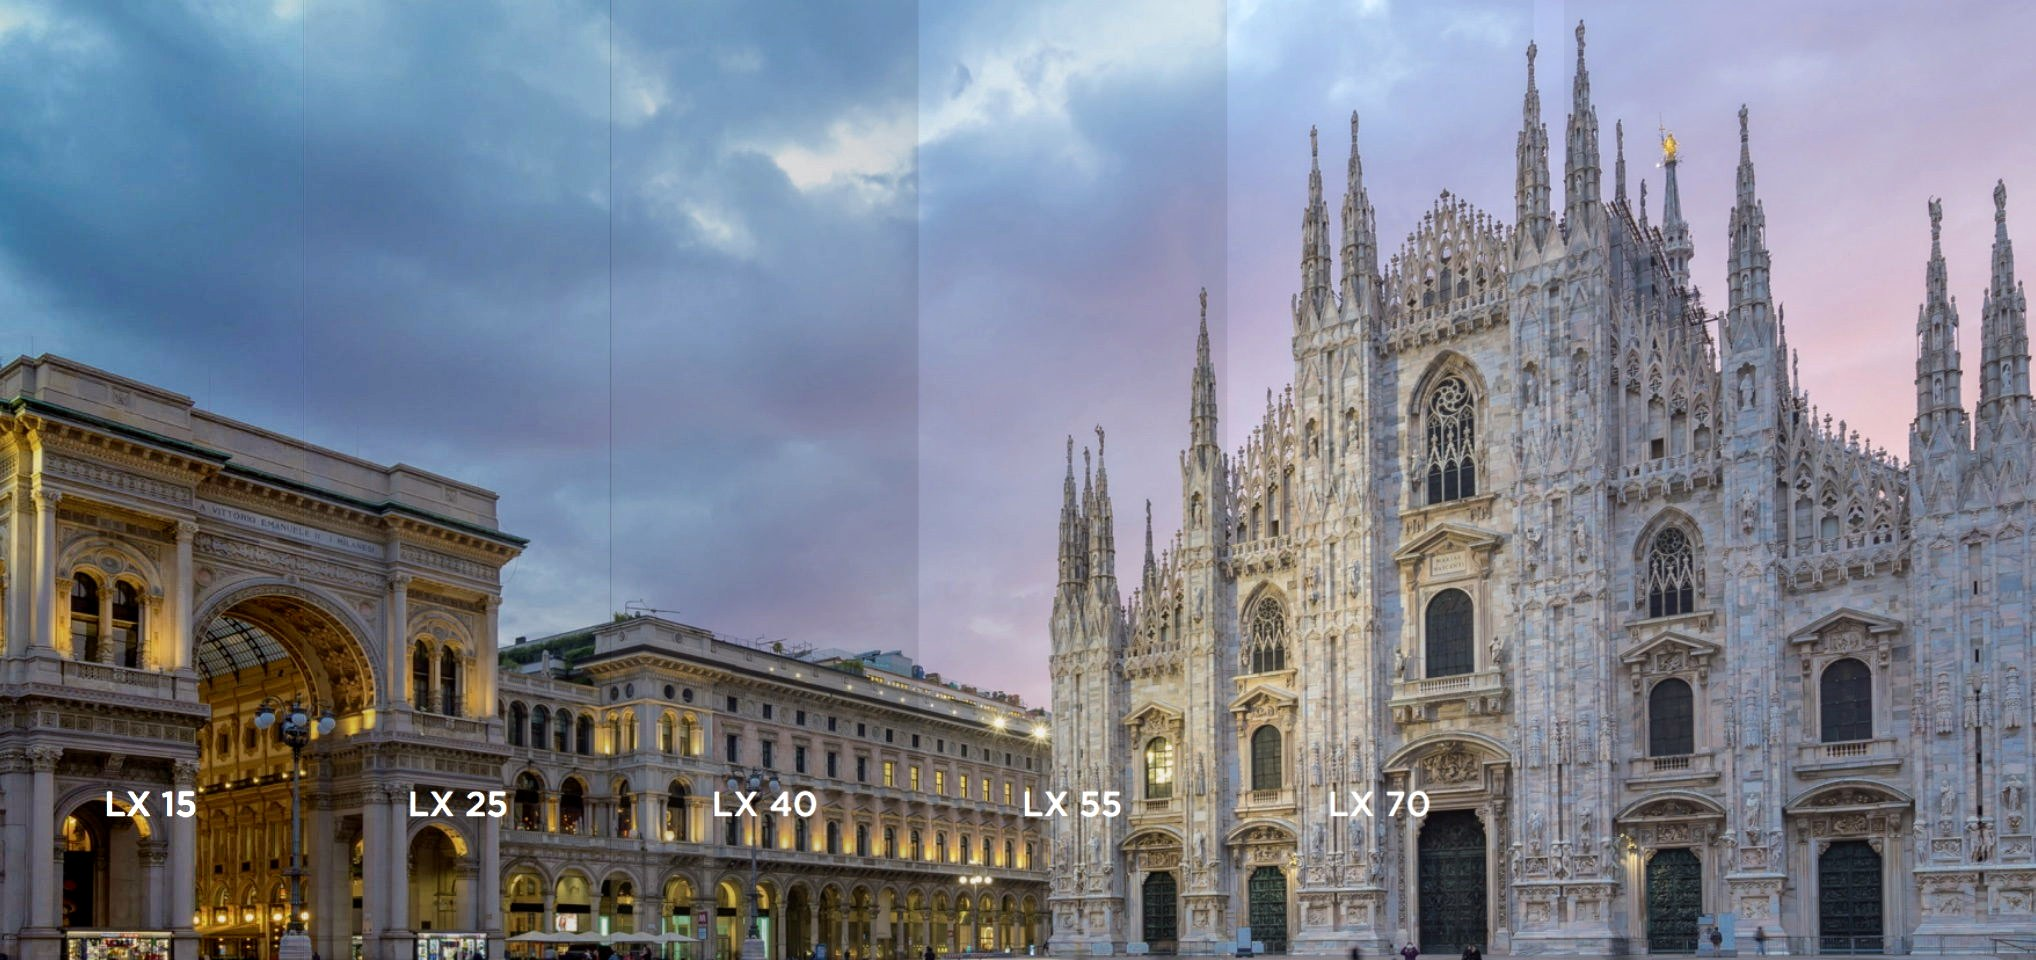
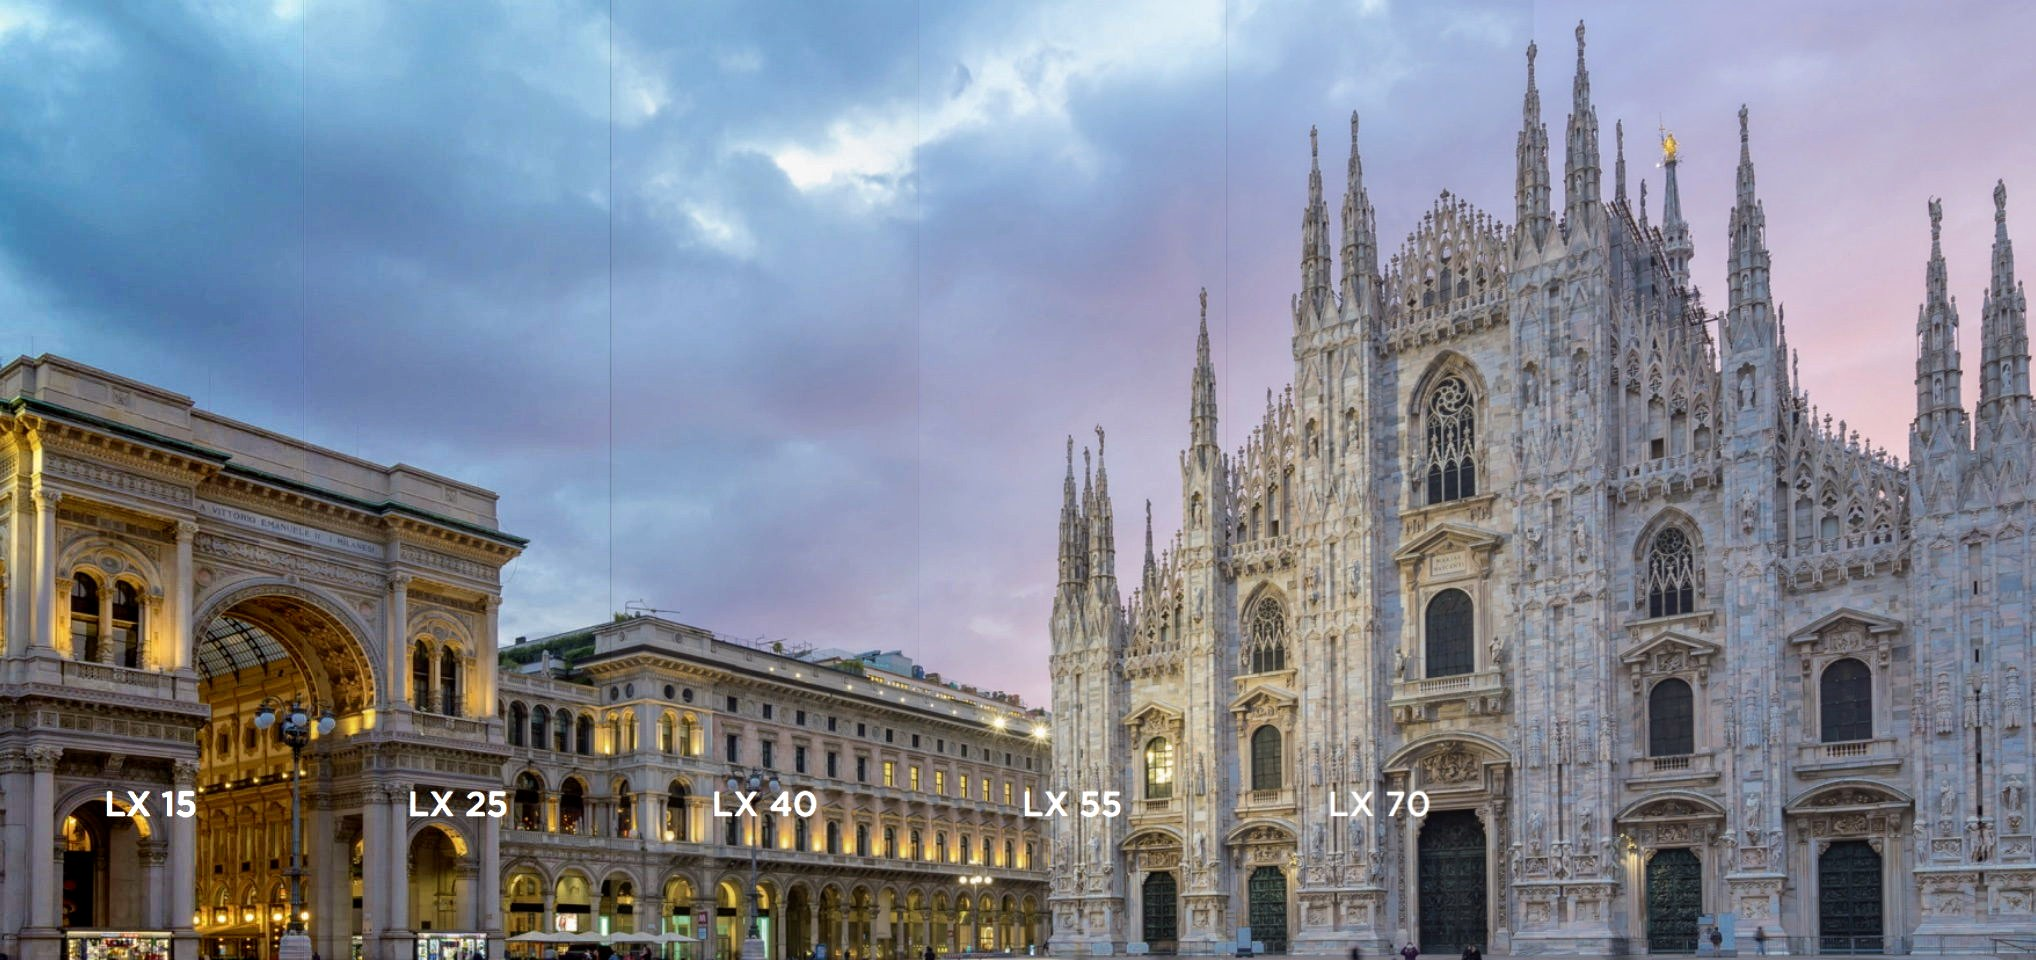
비교컷 커튼 3안 확정 — 이중 필름 원인 2건 수정: ①실측 경계 정정(1564 노이즈 제거, 918 신규 — 전 행 중앙값 스텝 측정, 최종 303/610/918/1226) ②구조 교체=필름층이 원본 컷 자체(clip 창 스윕) → 완착=원본 픽셀 보장(틴트 합성의 클리핑 오차 제거). 바탕 재생성(알파 .527/.43/.286/.218/.05, ?v=3)

diff --git a/index.html b/index.html
@@ -1288,21 +1288,22 @@ nav .nav-links .nav-drop-panel a.nav-drop-all:hover { color: var(--black); opaci
 .product-panel.has-scene { grid-template-columns:1fr 1fr; gap:3rem; }
 .product-panel.has-scene .product-image { grid-column:1 / -1; aspect-ratio:auto; }
 .product-panel.has-scene .product-image img { height:auto; }
-/* 비교컷 농도 커튼 (2026-08-13 2안) — VLT 하늘 섹션과 동일 문법.
-   바탕=필름 걷어낸 복원 컷(-base.jpg), 위로 원본 컷이 실제 밴드 폭대로 커튼 슬라이드.
+/* 비교컷 농도 커튼 (2026-08-13 3안 확정) — 사진 고정, 필름 창(clip)만 밴드별로 쓸어냄.
+   바탕=필름 걷어낸 복원 컷(-base.jpg), 필름층=원본 컷 그대로(clip 창만 이동) → 완착=원본 픽셀 동일.
    .scn-anim은 JS가 층 구성 후에만 부여 — JS 실패·미지원 시 기존 정적 컷 그대로 */
 .product-panel.has-scene .product-image { position:relative; }
-.product-image .scn-base { position:absolute; inset:0; }
-.product-image .scn-base img { width:100%; height:100%; object-fit:cover; display:block; }
-.product-image .scn-strip {
-  position:absolute; top:0; bottom:0;
-  transform:translateX(-102%); will-change:transform;
-  transition:transform 1.1s cubic-bezier(0.4,0,0.15,1);
+.product-image .scn-base, .product-image .scn-film {
+  position:absolute; inset:0; background-size:100% 100%; background-repeat:no-repeat;
   pointer-events:none;
 }
-.product-image.scn-on .scn-strip { transform:translateX(0); }
+.product-image .scn-film {
+  clip-path: inset(0 calc(100% - var(--l)) 0 var(--l));
+  transition: clip-path 1.1s cubic-bezier(0.4,0,0.15,1);
+  will-change: clip-path;
+}
+.product-image.scn-on .scn-film { clip-path: inset(0 calc(100% - var(--r)) 0 var(--l)); }
 @media (prefers-reduced-motion: reduce) {
-  .product-image .scn-strip { transition:none; transform:translateX(0); }
+  .product-image .scn-film { transition:none; clip-path: inset(0 calc(100% - var(--r)) 0 var(--l)); }
 }
 .product-name    { font-size:clamp(2rem,3.5vw,3rem); font-weight:600; letter-spacing:-0.04em; color:var(--black); margin-bottom:.5rem; }
 .product-tagline { font-size:1rem; color:var(--gray-3); margin-bottom:.9rem; font-weight:300; line-height:1.6; }
@@ -4520,35 +4521,31 @@ if (prodSec) prodIO.observe(prodSec);
   });
 })();
 
-/* ── 제품 비교컷 농도 커튼 (2026-08-13 2안) — 필름 걷어낸 복원 컷 위로 원본이 실제 밴드 폭대로 덮임.
+/* ── 제품 비교컷 농도 커튼 (2026-08-13 3안 확정) — 사진은 고정, 필름 창만 밴드별로 쓸어냄.
+   바탕=복원 컷(고정) / 필름층=원본 컷을 clip 창으로 공개 → 완착 시 원본과 픽셀 동일.
    VLT 하늘 섹션과 같은 관찰 문법(threshold .35, 이탈 시 리셋=재생, 탭 전환 시에도 재생) ── */
 (function() {
   if (!('IntersectionObserver' in window)) return;
-  /* 제품별: 복원 바탕(필름 걷어낸 사진, 고정) + 실측 밴드 경계 + 밴드별 필름막 농도.
-     바탕은 원본에서 같은 알파로 역산한 것 — 막이 다 덮이면 원본과 동일해짐 */
+  /* 제품별: 복원 바탕 + 실측 밴드 경계(원본 px, 전 행 중앙값 스텝 측정) */
   const SCN = {
-    'lx-vlt-scene.jpg': { base: 'lx-vlt-scene-base.jpg?v=2', w: 2036, edges: [0, 303, 610, 1226, 1564, 2036],
-      tints: [0.458, 0.345, 0.18, 0.10, 0.05].map(a => 'rgba(6,10,22,' + a + ')') },
+    'lx-vlt-scene.jpg': { base: 'lx-vlt-scene-base.jpg?v=3', w: 2036, edges: [0, 303, 610, 918, 1226, 2036] },
   };
   const wraps = [];
   document.querySelectorAll('.product-panel.has-scene .product-image').forEach(w => {
     const img = w.querySelector('img');
     const conf = img && SCN[img.getAttribute('src')];
     if (!conf) return;
-    const baseWrap = document.createElement('div');
-    baseWrap.className = 'scn-base';
-    const baseImg = document.createElement('img');
-    baseImg.src = conf.base; baseImg.alt = ''; baseImg.setAttribute('aria-hidden', 'true');
-    baseWrap.appendChild(baseImg);
-    w.appendChild(baseWrap);
+    const base = document.createElement('div');
+    base.className = 'scn-base';
+    base.style.backgroundImage = 'url("' + conf.base + '")';
+    w.appendChild(base);
     for (let i = 0; i < conf.edges.length - 1; i++) {
-      const l = conf.edges[i] / conf.w, r = conf.edges[i + 1] / conf.w;
-      const st = document.createElement('div');
-      st.className = 'scn-strip';
-      st.style.left = (l * 100) + '%';
-      st.style.width = ((r - l) * 100) + '%';
-      st.style.background = conf.tints[i];
-      w.appendChild(st);
+      const film = document.createElement('div');
+      film.className = 'scn-film';
+      film.style.backgroundImage = 'url("' + img.getAttribute('src') + '")';
+      film.style.setProperty('--l', (conf.edges[i] / conf.w * 100) + '%');
+      film.style.setProperty('--r', (conf.edges[i + 1] / conf.w * 100) + '%');
+      w.appendChild(film);
     }
     w.classList.add('scn-anim');
     wraps.push(w);
